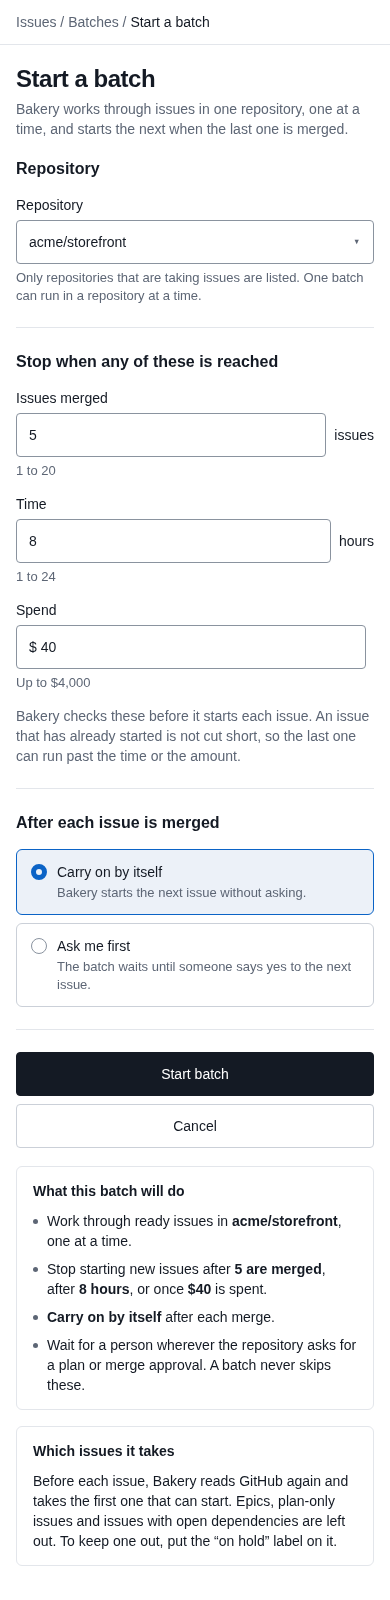
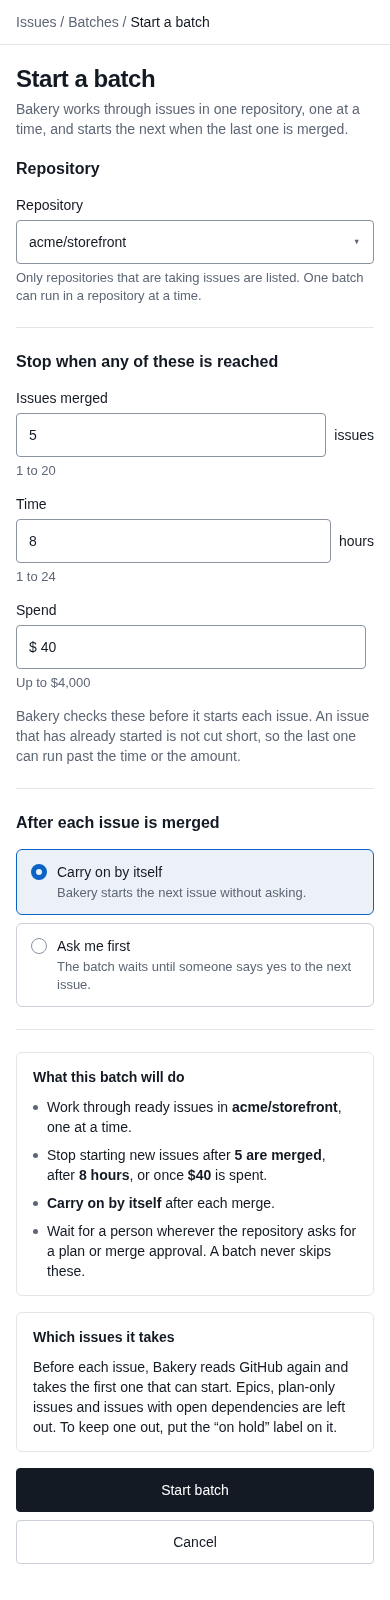
design(58): revision 2, phone summary above the save row

Changed region(s): [[0.0308, 0.6562, 0.9846, 0.9688]]

diff --git a/design-58/v2/new-phone-light.html b/design-58/v2/new-phone-light.html
@@ -95,8 +95,8 @@ body{font:400 14px/20px Geist,Inter,system-ui,sans-serif;color:var(--color-fg);b
 <div class="m3sec"><h2>Repository</h2><div class="m3f"><label>Repository</label><div class="m3in">acme/storefront <u>▾</u></div><small>Only repositories that are taking issues are listed. One batch can run in a repository at a time.</small></div></div>
 <div class="m3sec"><h2>Stop when any of these is reached</h2><div class="q58num"><div class="m3f"><label>Issues merged</label><div class="q58suf"><div class="m3in">5</div><span class="m3mu">issues</span></div><small>1 to 20</small></div><div class="m3f"><label>Time</label><div class="q58suf"><div class="m3in">8</div><span class="m3mu">hours</span></div><small>1 to 24</small></div><div class="m3f"><label>Spend</label><div class="q58suf"><div class="m3in">$ 40</div><span class="m3mu"></span></div><small>Up to $4,000</small></div></div><p style="margin:0;color:var(--color-fg-muted)">Bakery checks these before it starts each issue. An issue that has already started is not cut short, so the last one can run past the time or the amount.</p></div>
 <div class="m3sec"><h2>After each issue is merged</h2><div class="q58opts"><div class="q58opt on"><span class="q58rad"></span><span>Carry on by itself</span><small>Bakery starts the next issue without asking.</small></div><div class="q58opt"><span class="q58rad"></span><span>Ask me first</span><small>The batch waits until someone says yes to the next issue.</small></div></div></div>
-<div class="m3foot"><span class="m3btn ">Cancel</span><span class="m3btn m3pri">Start batch</span></div>
-</div><div>
+
 <div class="m3card"><h3>What this batch will do</h3><ul class="q58sum"><li>Work through ready issues in <b>acme/storefront</b>, one at a time.</li><li>Stop starting new issues after <b>5 are merged</b>, after <b>8 hours</b>, or once <b>$40</b> is spent.</li><li><b>Carry on by itself</b> after each merge.</li><li>Wait for a person wherever the repository asks for a plan or merge approval. A batch never skips these.</li></ul></div>
 <div class="m3card"><h3>Which issues it takes</h3><span class="m3mu">Before each issue, Bakery reads GitHub again and takes the first one that can start. Epics, plan-only issues and issues with open dependencies are left out. To keep one out, put the “on hold” label on it.</span></div>
-</div></div></div></div></div></body></html>
+<div class="m3foot"><span class="m3btn ">Cancel</span><span class="m3btn m3pri">Start batch</span></div>
+</div><div></div></div></div></div></div></body></html>
